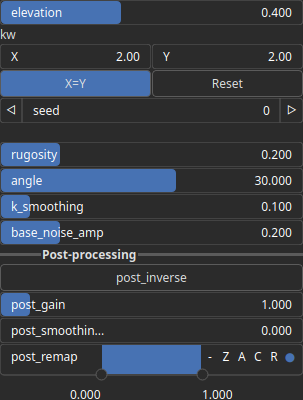
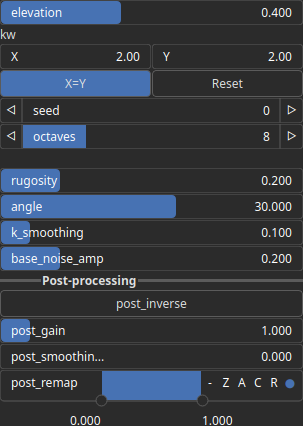
Update doc

diff --git a/docs/node_reference/nodes/ShatteredPeak.md b/docs/node_reference/nodes/ShatteredPeak.md
@@ -1,13 +1,13 @@
 
-MountainInselberg Node
-======================
+ShatteredPeak Node
+==================
 
 
 No description available
 
 
 
-![img](../../images/nodes/MountainInselberg_settings.png)
+![img](../../images/nodes/ShatteredPeak_settings.png)
 
 
 # Category
@@ -41,11 +41,11 @@ Primitive/Geological
 |gamma|Float|No description|
 |k_smoothing|Float|No description|
 |octaves|Integer|No description|
+|peak_kw|Float|No description|
 |post_gain|Float|No description|
 |post_inverse|Bool|No description|
 |post_remap|Value range|No description|
 |post_smoothing_radius|Float|No description|
-|round_shape|Bool|No description|
 |rugosity|Float|No description|
 |scale|Float|No description|
 |seed|Random seed number|No description|
@@ -53,16 +53,4 @@ Primitive/Geological
 # Example
 
 
-![img](../../images/nodes/MountainInselberg_hsd_example.png)
-
-Corresponding Hesiod file: [MountainInselberg.hsd](../../examples/MountainInselberg.hsd). Use [Ctrl+I] in the node editor to import a hsd file within your current project. 
-
-> **Note:** Example files are kept up-to-date with the latest version of [Hesiod](https://github.com/otto-link/Hesiod).
-> If you find an error, please [open an issue](https://github.com/otto-link/Hesiod/issues).
-
-  
-# Screenshots
-
-![img](../../images/nodes/MountainInselberg_wiki0.png)
-
-![img](../../images/nodes/MountainInselberg_wiki1.png)
+No example available.

diff --git a/docs/node_reference/nodes/categories.md b/docs/node_reference/nodes/categories.md
@@ -34,7 +34,7 @@ Node Categories
 |Primitive|Authoring|Brush, Ridgelines|
 |Primitive|Coherent|Dendry, GaborWaveFbm, Gavoronoise, Noise, NoiseFbm, NoiseIq, NoiseJordan, NoiseParberry, NoisePingpong, NoiseRidged, NoiseSwiss, PolygonField, PolygonFieldFbm, Stamping, Vorolines, VorolinesFbm, Voronoi, VoronoiFbm, Voronoise, Vororand|
 |Primitive|Function|Bump, BumpLorentzian, Constant, GaussianPulse, Paraboloid, Rift, Slope, Step, WaveDune, WaveSine, WaveSquare, WaveTriangular|
-|Primitive|Geological|Badlands, BasaltField, Caldera, Crater, MountainInselberg, MountainRangeRadial|
+|Primitive|Geological|Badlands, BasaltField, Caldera, Crater, MountainInselberg, MountainRangeRadial, ShatteredPeak|
 |Primitive|Kernel|KernelDiskSmooth, KernelGabor, KernelPrim|
 |Primitive|Random|White, WhiteDensityMap, WhiteSparse|
 |Routing||Broadcast, Receive, Thru, Toggle|

diff --git a/docs/node_reference/nodes/Badlands.md b/docs/node_reference/nodes/Badlands.md
@@ -37,6 +37,7 @@ Primitive/Geological
 |elevation|Float|No description|
 |k_smoothing|Float|No description|
 |kw|Wavenumber|No description|
+|octaves|Integer|No description|
 |post_gain|Float|No description|
 |post_inverse|Bool|No description|
 |post_remap|Value range|No description|

diff --git a/docs/node_reference/nodes/ShatteredPeak.in.md.md b/docs/node_reference/nodes/ShatteredPeak.in.md.md
@@ -1,0 +1,5 @@
+# Screenshots
+
+![img](../../images/nodes/ShatteredPeak_wiki0.png)
+
+![img](../../images/nodes/ShatteredPeak_wiki1.png)
